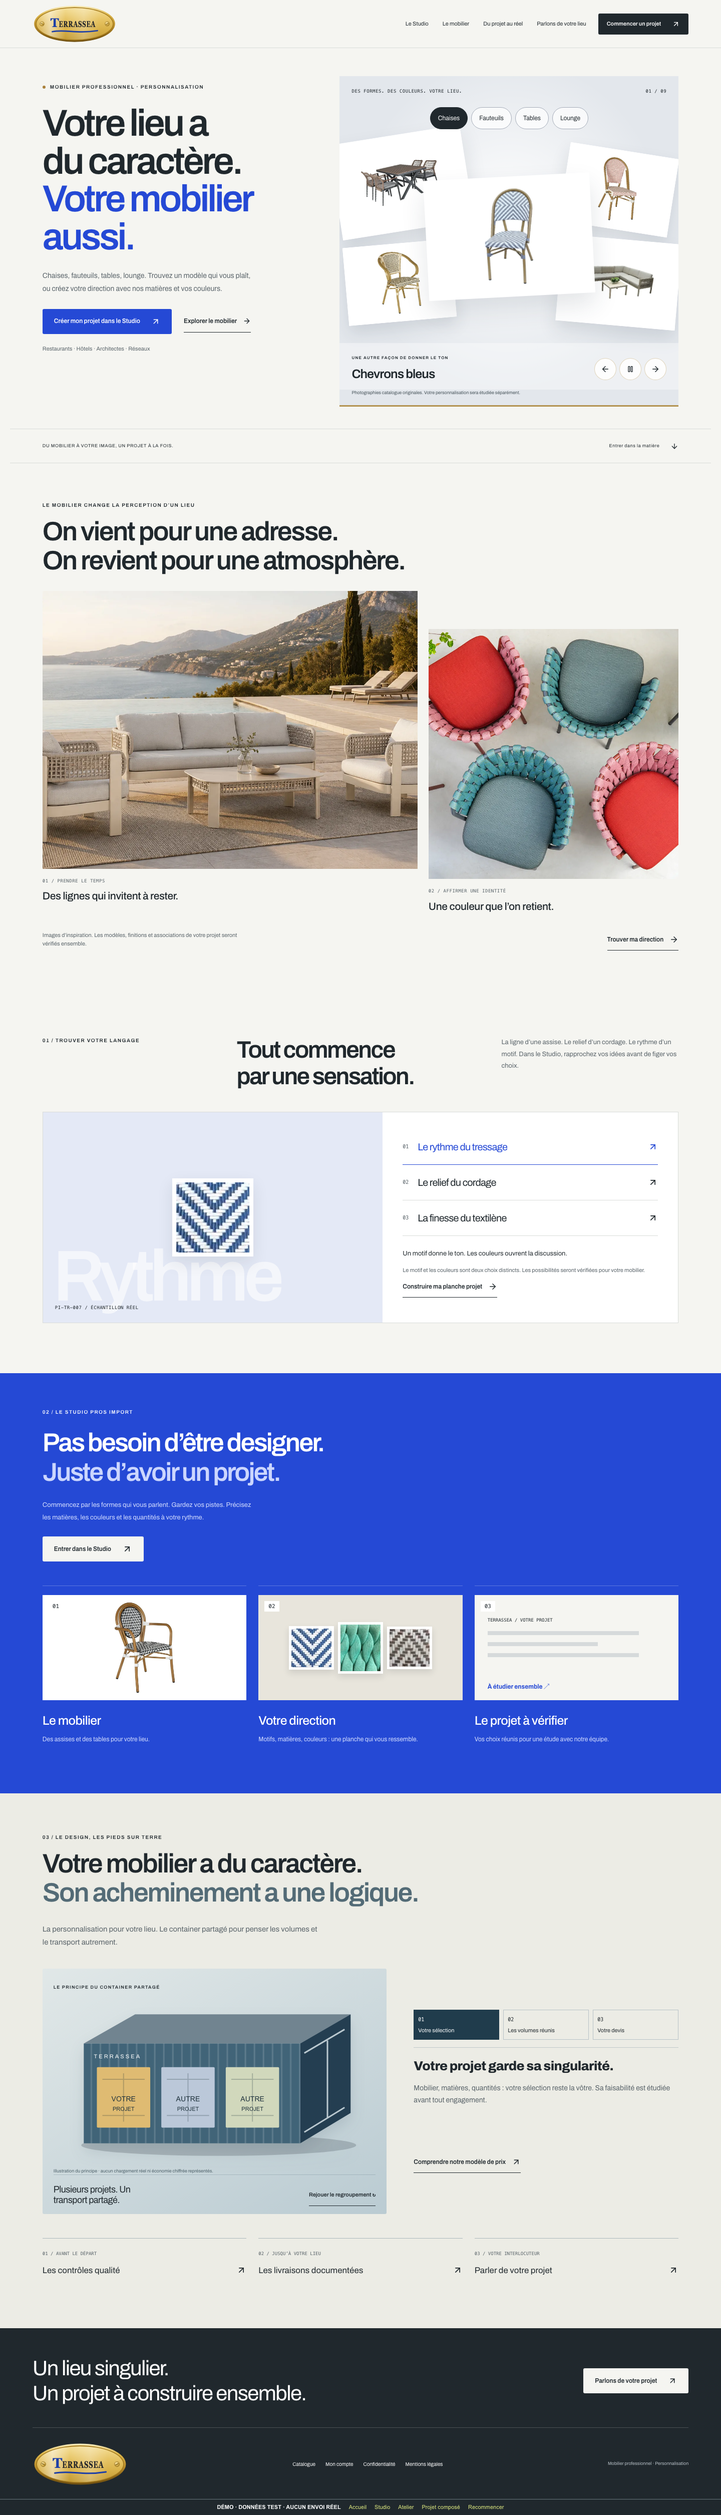
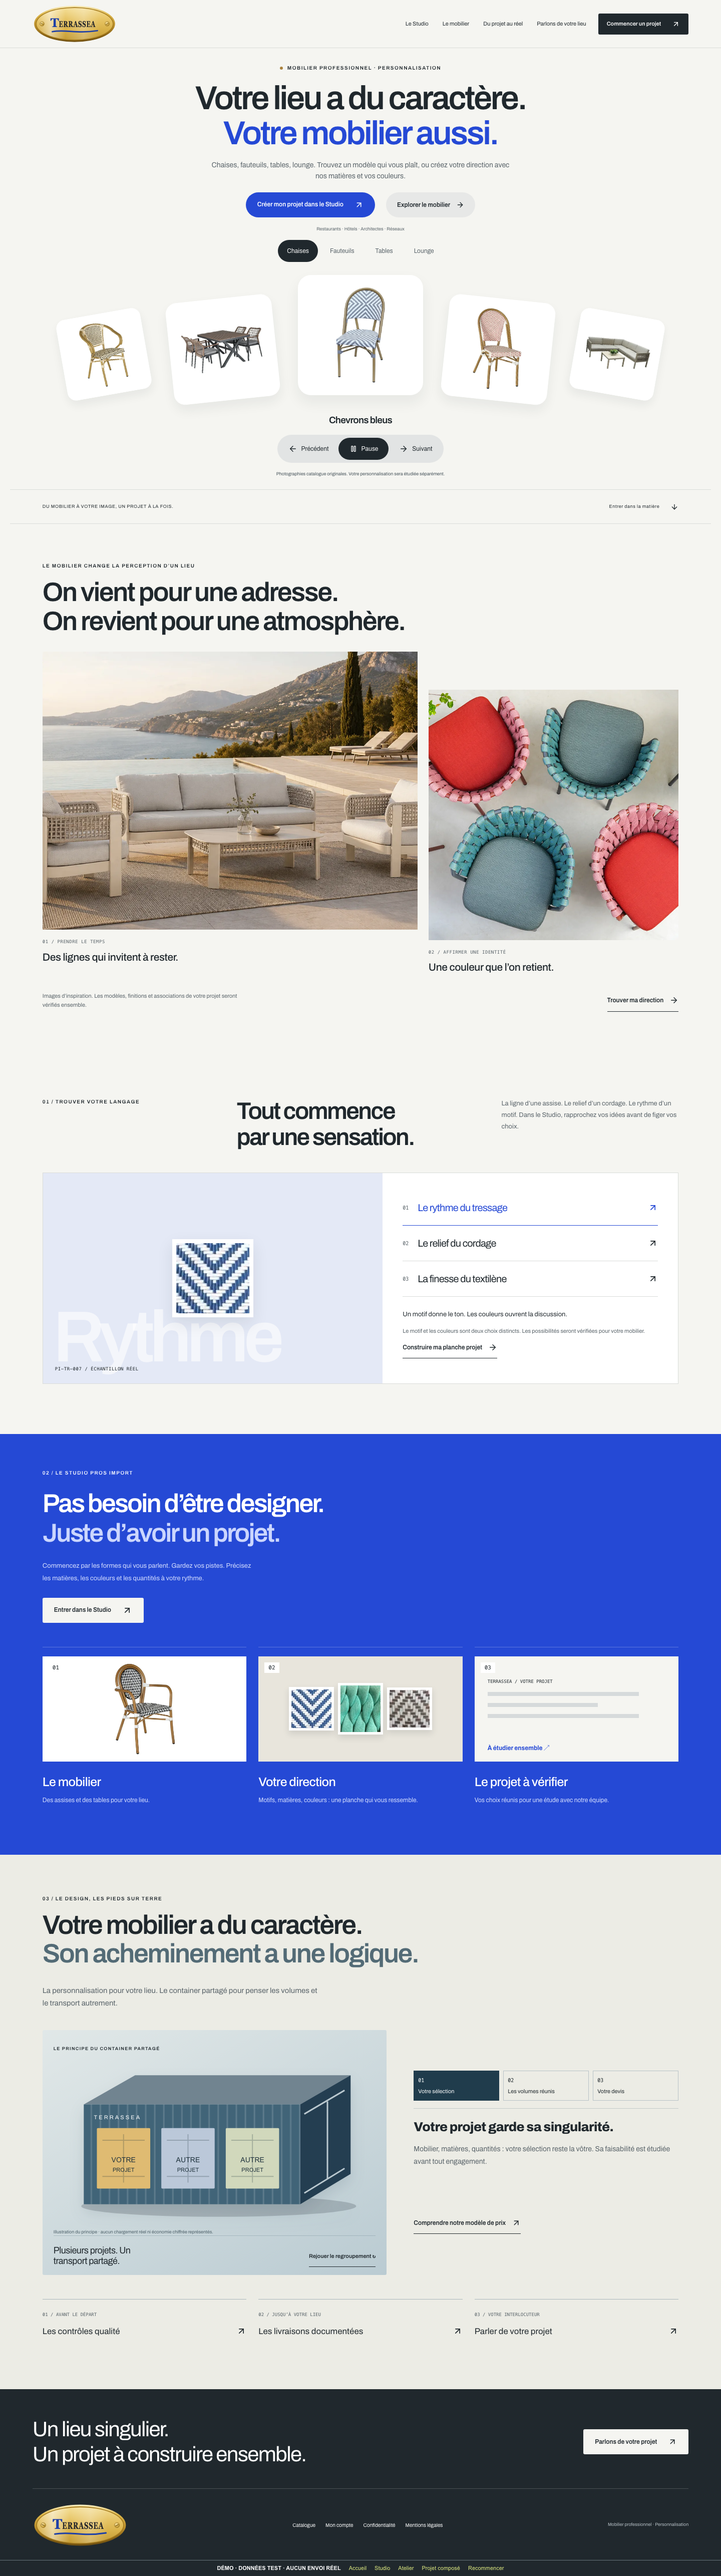
feat(home): unify hero scene and clarify playback controls

diff --git a/src/styles/experience.css b/src/styles/experience.css
@@ -2227,3 +2227,274 @@
     margin-top: 0;
   }
 }
+
+/* Accueil unifié : titre et collection sur une seule scène sans panneau latéral. */
+.pi-home-unified.pi-home-hero {
+  display: flex;
+  flex-direction: column;
+  gap: 0;
+  padding-top: 32px;
+  padding-bottom: 24px;
+  max-width: 1540px;
+}
+.pi-home-unified .pi-hero-copy {
+  display: flex;
+  flex-direction: column;
+  align-items: center;
+  text-align: center;
+  padding: 0;
+  max-width: 100%;
+}
+.pi-home-unified .pi-hero-copy > .pi-eyebrow {
+  margin: 0 0 18px;
+}
+.pi-home-unified .pi-hero-copy h1 {
+  font-size: clamp(38px, 4.6vw, 70px);
+  line-height: 1.05;
+  letter-spacing: -0.05em;
+  margin: 0;
+}
+.pi-home-unified .pi-hero-copy h1 > span {
+  display: block;
+}
+.pi-home-unified .pi-hero-intro {
+  max-width: 600px;
+  margin: 18px 0 0;
+  font-size: 14px;
+  line-height: 1.6;
+}
+.pi-home-unified .pi-hero-actions {
+  margin: 20px 0 0;
+  gap: 22px;
+  justify-content: center;
+}
+.pi-home-unified .pi-button {
+  border-radius: 999px;
+}
+.pi-home-unified .pi-hero-actions .pi-text-link {
+  border: 0;
+  background: #e7e8e7;
+  border-radius: 999px;
+  min-height: 50px;
+  padding: 12px 22px;
+}
+.pi-home-unified .pi-hero-copy > .pi-micro {
+  margin: 16px 0 0;
+  font-size: 9px;
+}
+.pi-home-unified .pi-chair-showcase {
+  width: 100%;
+  background: none;
+  border: 0;
+  min-height: 0;
+  overflow: hidden;
+  margin-top: 14px;
+}
+.pi-home-unified .pi-showcase-heading {
+  display: none;
+}
+.pi-home-unified .pi-showcase-families {
+  padding: 0;
+  gap: 6px;
+}
+.pi-home-unified .pi-showcase-families button {
+  background: transparent;
+  border: 0;
+  color: #596369;
+  padding: 8px 18px;
+}
+.pi-home-unified .pi-showcase-families button[aria-pressed='true'] {
+  background: #20282d;
+  color: #fff;
+}
+.pi-home-unified .pi-chair-orbit {
+  min-height: 296px;
+  perspective: 1200px;
+  margin-top: 6px;
+}
+.pi-home-unified .pi-chair-card {
+  width: 250px;
+  height: 240px;
+  left: calc(50% - 125px);
+  top: 20px;
+  border-radius: 26px;
+  overflow: hidden;
+  border: 0;
+  box-shadow: 0 14px 28px #20282d12;
+  padding: 10px;
+}
+.pi-home-unified .pi-chair-card img {
+  border-radius: 18px;
+}
+.pi-home-unified .pi-chair-card[data-position='0'] {
+  transform: translate(0, 0) rotate(0);
+  z-index: 5;
+}
+.pi-home-unified .pi-chair-card[data-position='1'] {
+  transform: translate(110%, 12%) rotate(6deg) scale(0.85);
+  z-index: 3;
+}
+.pi-home-unified .pi-chair-card[data-position='2'] {
+  transform: translate(205%, 16%) rotate(10deg) scale(0.68);
+  z-index: 1;
+}
+.pi-home-unified .pi-chair-card[data-position='3'] {
+  transform: translate(-110%, 12%) rotate(-6deg) scale(0.85);
+  z-index: 3;
+}
+.pi-home-unified .pi-chair-card[data-position='4'] {
+  transform: translate(-205%, 16%) rotate(-10deg) scale(0.68);
+  z-index: 1;
+}
+.pi-home-unified .pi-showcase-bottom {
+  background: transparent;
+  flex-direction: column;
+  gap: 14px;
+  padding: 0 12px 10px;
+  text-align: center;
+}
+.pi-home-unified .pi-showcase-bottom .pi-eyebrow {
+  display: none;
+}
+.pi-home-unified .pi-showcase-bottom p {
+  font-size: 19px;
+  margin: 0;
+}
+.pi-home-unified .pi-showcase-controls {
+  background: #e2e4e4;
+  border-radius: 999px;
+  padding: 6px;
+  gap: 4px;
+}
+.pi-home-unified .pi-showcase-controls button {
+  width: auto;
+  min-width: 100px;
+  min-height: 44px;
+  padding: 10px 16px;
+  display: flex;
+  align-items: center;
+  justify-content: center;
+  gap: 8px;
+  background: transparent;
+  border: 0;
+  border-radius: 999px;
+  color: #20282d;
+  font-size: 12px;
+}
+.pi-home-unified .pi-showcase-controls button[data-motion-toggle] {
+  background: #20282d;
+  color: white;
+}
+.pi-home-unified .pi-showcase-controls button:hover {
+  background: #cdd2d3;
+}
+.pi-home-unified .pi-showcase-controls button[data-motion-toggle]:hover {
+  background: #35464e;
+}
+.pi-home-unified .pi-showcase-note {
+  max-width: none;
+  padding: 0 12px;
+  margin: 6px 0 0;
+  text-align: center;
+  font-size: 9px;
+}
+@media (max-width: 760px) {
+  .pi-home-unified.pi-home-hero {
+    padding-top: 22px;
+  }
+  .pi-home-unified .pi-hero-copy {
+    display: contents;
+  }
+  .pi-home-unified .pi-hero-copy > .pi-eyebrow {
+    order: 0;
+    font-size: 7px;
+    align-self: center;
+    margin: 0 0 14px;
+  }
+  .pi-home-unified .pi-hero-copy h1 {
+    order: 1;
+    font-size: clamp(30px, 7.9vw, 48px);
+    text-align: center;
+    margin: 0;
+  }
+  .pi-home-unified .pi-hero-intro {
+    order: 2;
+    text-align: center;
+    font-size: 12px;
+    margin: 14px auto 0;
+    max-width: 36ch;
+  }
+  .pi-home-unified .pi-chair-showcase {
+    order: 3;
+    margin: 18px 0 0;
+  }
+  .pi-home-unified .pi-hero-actions {
+    order: 4;
+    display: flex;
+    flex-direction: row;
+    gap: 8px;
+    width: 100%;
+    margin-top: 20px;
+  }
+  .pi-home-unified .pi-hero-actions .pi-button {
+    min-height: 52px;
+    flex: 1;
+    padding: 10px 14px;
+    font-size: 11px;
+  }
+  .pi-home-unified .pi-hero-actions .pi-text-link {
+    min-height: 52px;
+    padding: 10px 14px;
+    font-size: 11px;
+    flex: 1;
+    justify-content: center;
+  }
+  .pi-home-unified .pi-hero-copy > .pi-micro {
+    order: 5;
+    text-align: center;
+    margin-top: 16px;
+  }
+  .pi-home-unified .pi-showcase-families {
+    gap: 0;
+  }
+  .pi-home-unified .pi-showcase-families button {
+    padding: 8px 12px;
+    font-size: 11px;
+  }
+  .pi-home-unified .pi-chair-orbit {
+    min-height: 220px;
+    overflow: visible;
+  }
+  .pi-home-unified .pi-chair-card {
+    width: 160px;
+    height: 165px;
+    left: calc(50% - 80px);
+    top: 20px;
+    border-radius: 22px;
+    padding: 8px;
+  }
+  .pi-home-unified .pi-chair-card[data-position='1'] {
+    transform: translate(85%, 10%) rotate(7deg) scale(0.72);
+  }
+  .pi-home-unified .pi-chair-card[data-position='3'] {
+    transform: translate(-85%, 10%) rotate(-7deg) scale(0.72);
+  }
+  .pi-home-unified .pi-chair-card[data-position='2'] {
+    transform: translate(150%, 10%) rotate(10deg) scale(0.6);
+  }
+  .pi-home-unified .pi-chair-card[data-position='4'] {
+    transform: translate(-150%, 10%) rotate(-10deg) scale(0.6);
+  }
+  .pi-home-unified .pi-showcase-controls button {
+    min-width: 0;
+    padding: 10px 12px;
+    gap: 5px;
+    font-size: 11px;
+  }
+  .pi-home-unified .pi-showcase-bottom p {
+    font-size: 17px;
+  }
+  .pi-home-unified .pi-showcase-note {
+    font-size: 8px;
+  }
+}

diff --git a/src/components/experience/ChairShowcase.tsx b/src/components/experience/ChairShowcase.tsx
@@ -92,7 +92,6 @@ export function ChairShowcase() {
     <div
       ref={root}
       className="pi-chair-showcase pi-showcase-depth"
-      style={{ backgroundColor: chairs[active]!.tone }}
       role="region"
       aria-label="Explorer les modèles du catalogue"
       onMouseEnter={() => setHovered(true)}
@@ -163,6 +162,7 @@ export function ChairShowcase() {
             onClick={() => move(-1)}
           >
             <ArrowLeft size={18} />
+            <span>Précédent</span>
           </button>
           {!reduced && (
             <button
@@ -174,6 +174,7 @@ export function ChairShowcase() {
               onClick={() => setPaused(!paused)}
             >
               {paused ? <Play size={16} /> : <Pause size={16} />}
+              <span>{paused ? 'Lecture' : 'Pause'}</span>
             </button>
           )}
           <button
@@ -182,6 +183,7 @@ export function ChairShowcase() {
             onClick={() => move(1)}
           >
             <ArrowRight size={18} />
+            <span>Suivant</span>
           </button>
         </div>
       </div>

diff --git a/src/components/experience/ProjectHome.tsx b/src/components/experience/ProjectHome.tsx
@@ -41,20 +41,15 @@ export function ProjectHome() {
     <div className="pi-page">
       <ExperienceHeader />
       <main id="top">
-        <section className="pi-home-hero pi-wrap">
+        <section className="pi-home-hero pi-home-unified pi-wrap">
           <div className="pi-hero-copy">
             <p className="pi-eyebrow">
               <span className="pi-status-dot" /> MOBILIER PROFESSIONNEL ·
               PERSONNALISATION
             </p>
             <h1>
-              Votre lieu a<br />
-              du caractère.
-              <span>
-                Votre mobilier
-                <br />
-                aussi.
-              </span>
+              Votre lieu a du caractère.
+              <span>Votre mobilier aussi.</span>
             </h1>
             <p className="pi-hero-intro">
               Chaises, fauteuils, tables, lounge. Trouvez un modèle qui vous

diff --git a/docs/STUDIO_HERO_UNIFIED.md b/docs/STUDIO_HERO_UNIFIED.md
@@ -1,0 +1,18 @@
+# Variante : une scène d’accueil unifiée
+
+Retour du 11 septembre 2026, capture annotée : séparation trop nette entre argumentaire et visuels ; angles droits ; commandes de lecture peu lisibles.
+
+## Proposition implémentée
+
+- Une phrase centrée en deux lignes, dans un espace commun avec les produits.
+- Suppression du panneau coloré latéral, de sa bordure dorée et du compteur technique.
+- Cinq plans de produits sur la largeur desktop, avec angles arrondis (26 px), ombres légères et inclinaisons conservées. Les photographies originales restent inchangées.
+- Navigation groupée et textuelle : Précédent, Pause/Lecture, Suivant. Le contrôle de lecture est sombre pour être identifiable. En reduced motion, seuls les contrôles manuels restent présents.
+- Deux actions arrondies : Studio et catalogue. Aucun changement au flag ou à la logique commerciale.
+- Mobile : introduction centrée, familles et produits, navigation lisible, puis deux actions côte à côte. La composition latérale est intentionnellement partiellement visible pour suggérer la suite.
+
+Cette proposition remplace la structure en deux colonnes. Elle ne modifie pas la sélection de neuf références, les données catalogue, les moteurs Studio ou le container.
+
+Captures : [desktop](design/lot-5-2/unified-desktop.png) · [mobile](design/lot-5-2/unified-mobile.png).
+
+Aucune action en production, aucune migration, aucun changement de secret. DATA READY = NON.
